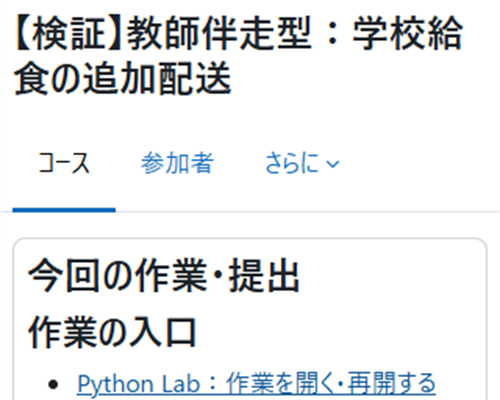
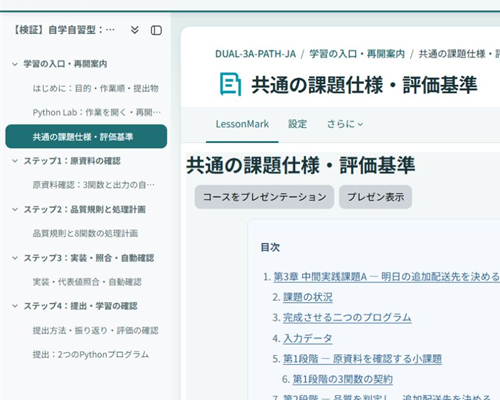
Polish the learning workspace theme

diff --git a/scss/duallearning.scss b/scss/duallearning.scss
@@ -9,6 +9,46 @@ body [tabindex]:focus-visible:focus {
     outline-offset: 2px;
 }
 
+// Create a calm learning workspace while retaining Boost's layout and controls.
+.navbar.fixed-top {
+    border-bottom: 3px solid #0b6f75;
+    box-shadow: 0 0.125rem 0.75rem rgba(24, 52, 58, 0.12);
+}
+
+#page.drawers {
+    background:
+        linear-gradient(180deg, rgba(11, 111, 117, 0.08) 0, rgba(243, 247, 247, 0) 16rem),
+        #f3f7f7;
+}
+
+#page.drawers .main-inner {
+    border: 1px solid rgba(11, 111, 117, 0.16);
+    border-radius: 1rem;
+    background: #fff;
+    box-shadow: 0 0.25rem 1rem rgba(24, 52, 58, 0.07);
+}
+
+#page-header .page-header-headings h1,
+#page-header h1 {
+    color: #18343a;
+    letter-spacing: -0.015em;
+}
+
+.breadcrumb a {
+    font-weight: 550;
+}
+
+.moremenu .nav-link.active,
+.nav-tabs .nav-link.active {
+    color: #075f69;
+    border-bottom-color: #0b6f75;
+}
+
+.path-course-view .course-section {
+    border-color: rgba(11, 111, 117, 0.18);
+    border-radius: 0.875rem;
+}
+
 // Learning content must remain available on narrow screens.
 #region-main {
     img,
@@ -25,5 +65,91 @@ body [tabindex]:focus-visible:focus {
     pre {
         max-width: 100%;
         overflow-x: auto;
+    }
+}
+
+// Keep long-form learning content comfortable without changing administration,
+// grading, dashboards, or course editing screens.
+.path-mod-lessonmark .mod_lessonmark-content,
+.path-mod-page #region-main .box.generalbox,
+.path-mod-book #region-main .book_content {
+    max-width: 76ch;
+    margin-right: auto;
+    margin-left: auto;
+    font-size: 1.025rem;
+    line-height: 1.75;
+    letter-spacing: 0.01em;
+
+    h1,
+    h2,
+    h3,
+    h4 {
+        margin-top: 1.6em;
+        margin-bottom: 0.65em;
+        line-height: 1.35;
+        letter-spacing: -0.01em;
+    }
+
+    p,
+    ul,
+    ol,
+    pre,
+    table {
+        margin-bottom: 1.25rem;
+    }
+
+    li + li {
+        margin-top: 0.35rem;
+    }
+
+    a:not(.btn) {
+        text-decoration-thickness: 0.08em;
+        text-underline-offset: 0.18em;
+    }
+
+    code,
+    pre {
+        font-family: ui-monospace, "Cascadia Code", "SFMono-Regular", Consolas,
+            "Liberation Mono", monospace;
+    }
+
+    pre {
+        padding: 1rem;
+        border: 1px solid #d4e1e2;
+        border-radius: 0.625rem;
+        background: #f6f9f9;
+    }
+
+    table {
+        display: block;
+        max-width: 100%;
+        overflow-x: auto;
+    }
+}
+
+@media (max-width: 767.98px) {
+    #page.drawers .main-inner {
+        border-right: 0;
+        border-left: 0;
+        border-radius: 0;
+        box-shadow: none;
+    }
+
+    #page-header .page-header-headings h1,
+    #page-header h1 {
+        font-size: 1.65rem;
+        line-height: 1.3;
+    }
+
+    .path-mod-lessonmark #region-main > h2 {
+        font-size: 1.35rem;
+        line-height: 1.35;
+    }
+
+    .path-mod-lessonmark .mod_lessonmark-content,
+    .path-mod-page #region-main .box.generalbox,
+    .path-mod-book #region-main .book_content {
+        font-size: 1rem;
+        line-height: 1.7;
     }
 }

diff --git a/scss/pre.scss b/scss/pre.scss
@@ -1,0 +1,12 @@
+// Dual Learning visual tokens are compiled into Boost. No external assets are loaded.
+$primary: #0b6f75;
+$link-color: #075f69;
+$body-bg: #f3f7f7;
+$body-color: #18343a;
+$font-family-sans-serif: "Noto Sans JP", "Noto Sans", "Hiragino Sans",
+    "Yu Gothic UI", Meiryo, system-ui, -apple-system, "Segoe UI", sans-serif;
+$line-height-base: 1.6;
+$headings-font-weight: 650;
+$border-radius: 0.625rem;
+$border-radius-lg: 0.875rem;
+$border-radius-sm: 0.4rem;

diff --git a/lib.php b/lib.php
@@ -23,7 +23,7 @@
  */
 
 /**
- * Return the Boost preset followed by the small Dual Learning layer.
+ * Return the Dual Learning variables, Boost preset, and presentation layer.
  *
  * @param theme_config $theme Theme configuration.
  * @return string
@@ -31,7 +31,8 @@
 function theme_duallearning_get_main_scss_content($theme): string {
     global $CFG;
 
-    $scss = file_get_contents($CFG->dirroot . '/theme/boost/scss/preset/default.scss');
+    $scss = file_get_contents($CFG->dirroot . '/theme/' . $theme->name . '/scss/pre.scss');
+    $scss .= file_get_contents($CFG->dirroot . '/theme/boost/scss/preset/default.scss');
     $scss .= file_get_contents($CFG->dirroot . '/theme/' . $theme->name . '/scss/duallearning.scss');
     return $scss;
 }

diff --git a/version.php b/version.php
@@ -25,10 +25,10 @@
 defined('MOODLE_INTERNAL') || die();
 
 $plugin->component = 'theme_duallearning';
-$plugin->version = 2026091501;
+$plugin->version = 2026091502;
 $plugin->requires = 2026042000;
 $plugin->dependencies = [
     'theme_boost' => ANY_VERSION,
 ];
 $plugin->maturity = MATURITY_ALPHA;
-$plugin->release = '0.1.0-alpha3';
+$plugin->release = '0.1.0-alpha4';

diff --git a/scripts/build-release.py b/scripts/build-release.py
@@ -19,6 +19,7 @@ REQUIRED = {
     "duallearning/lib.php",
     "duallearning/pix/screenshot.png",
     "duallearning/scss/duallearning.scss",
+    "duallearning/scss/pre.scss",
     "duallearning/version.php",
 }
 

diff --git a/docs/MARKETPLACE_LISTING.md b/docs/MARKETPLACE_LISTING.md
@@ -10,13 +10,15 @@ theme_duallearning
 
 ## Short description
 
-Dual Learning is a lightweight Boost child theme that improves keyboard focus visibility and keeps learning content usable on narrow screens without changing Moodle's standard navigation.
+Dual Learning is a polished, lightweight Boost child theme for comfortable learning, clear keyboard focus, and dependable narrow-screen use.
 
 ## Full description
 
-Dual Learning supports courses that combine teacher-guided sessions and self-paced study. It keeps Moodle's familiar Boost layouts, navigation, course index, activity controls, submission pages, and grade reports. Its small presentation layer gives keyboard focus a consistent visible outline and constrains common learning media and code blocks so that course content remains available on narrow screens.
+Dual Learning gives Moodle a calm, coherent learning-workspace appearance while keeping its familiar Boost layouts, navigation, course index, activity controls, submission pages, and grade reports. A restrained teal visual system, balanced spacing, clear content surfaces, and a local system-font stack help both students and teachers experience the site as a considered learning product.
 
-The theme does not introduce JavaScript, external fonts, CDN requests, custom renderers, data tables, external services, or tracking. It can be used with Moodle's standard course formats and does not require the Dual Learning course-format plugin.
+The theme supports teacher-guided sessions and self-paced study. It gives keyboard focus a consistent visible outline, constrains common learning media and code blocks on narrow screens, and improves long-form typography in LessonMark, Page, and Book resources.
+
+The theme does not introduce JavaScript, downloaded fonts, CDN requests, custom renderers, external services, or tracking. It can be used with Moodle's standard course formats and does not require the Dual Learning course-format plugin.
 
 ## Installation
 
@@ -42,5 +44,5 @@ Dual Learning does not store personal data. The package implements Moodle's Priv
 
 - Source control: https://github.com/ozekihiroshi/moodle-theme_duallearning.git
 - Branch: main
-- Release tag: v0.1.0-alpha3
+- Release tag: v0.1.0-alpha4
 - Bug tracker: https://github.com/ozekihiroshi/moodle-theme_duallearning/issues

diff --git a/README.md b/README.md
@@ -7,16 +7,18 @@ The theme is independent of the optional [format_duallearning](https://github.co
 ## Features
 
 - Inherits Moodle's standard Boost layouts and navigation.
+- Adds a calm teal visual system, balanced spacing, and clear content surfaces.
 - Gives keyboard focus a consistent visible outline.
 - Keeps images, video, iframes, and code blocks usable on narrow screens.
-- Adds no JavaScript, external font, CDN request, renderer override, or settings page.
+- Adds a restrained reading typography layer for LessonMark, Page, and Book resources.
+- Uses local system fonts and adds no JavaScript, font download, CDN request, renderer override, or settings page.
 - Stores no personal data and sends no data to an external service.
 
 ## Screenshots
 
-| Guided course at 320px | Lesson content at 320px | English self-paced course at 320px |
-|---|---|---|
-| ![Guided course](docs/screenshots/01-guided-course-narrow.png) | ![Lesson content](docs/screenshots/02-lesson-content-narrow.png) | ![English self-paced course](docs/screenshots/03-self-paced-english-narrow.png) |
+| Learning workspace | Narrow learning content |
+|---|---|
+| ![Learning workspace](docs/screenshots/04-learning-workspace-desktop.png) | ![Narrow learning content](docs/screenshots/05-learning-content-narrow.png) |
 
 The screenshots use the public Dual Learning demonstration course and were captured with this theme selected. Browser chrome, account names, and notification controls are excluded.
 

diff --git a/docs/screenshots/README.md b/docs/screenshots/README.md
@@ -2,9 +2,8 @@
 
 These images show representative pages with the Dual Learning theme selected.
 
-- 01-guided-course-narrow.png: Japanese teacher-guided course overview at 320 CSS pixels.
-- 02-lesson-content-narrow.png: Japanese LessonMark learning content at 320 CSS pixels.
-- 03-self-paced-english-narrow.png: English self-paced course overview at 320 CSS pixels.
-- ../../pix/screenshot.png: 500 by 400 theme-selector preview.
+- `04-learning-workspace-desktop.png`: Japanese LessonMark learning workspace on a desktop display.
+- `05-learning-content-narrow.png`: The same learning resource on a narrow display.
+- `../../pix/screenshot.png`: 500 by 400 theme-selector preview showing the updated visual system.
 
 The source course content is part of the public Dual Learning demonstration material. Browser chrome, account names, and notification controls are excluded.

diff --git a/CHANGELOG.md b/CHANGELOG.md
@@ -1,5 +1,13 @@
 # Changelog
 
+## 0.1.0-alpha4 - 2026-09-15
+
+- Add a calm teal visual system, a light learning-workspace background, and a clear content surface while retaining Boost layouts and controls.
+- Use a local system-font stack and improved spacing for Japanese and English interfaces without downloading fonts.
+- Improve long-form readability in LessonMark, Page, and Book resources, including code and wide tables.
+- Keep narrow-screen layouts compact and reduce heading sizes on very small displays.
+- Replace the theme-selector and documentation screenshots with representative images of the updated theme.
+
 ## 0.1.0-alpha3 - 2026-09-15
 
 - Add the required theme configuration title and a 500 by 400 theme-selector screenshot.
